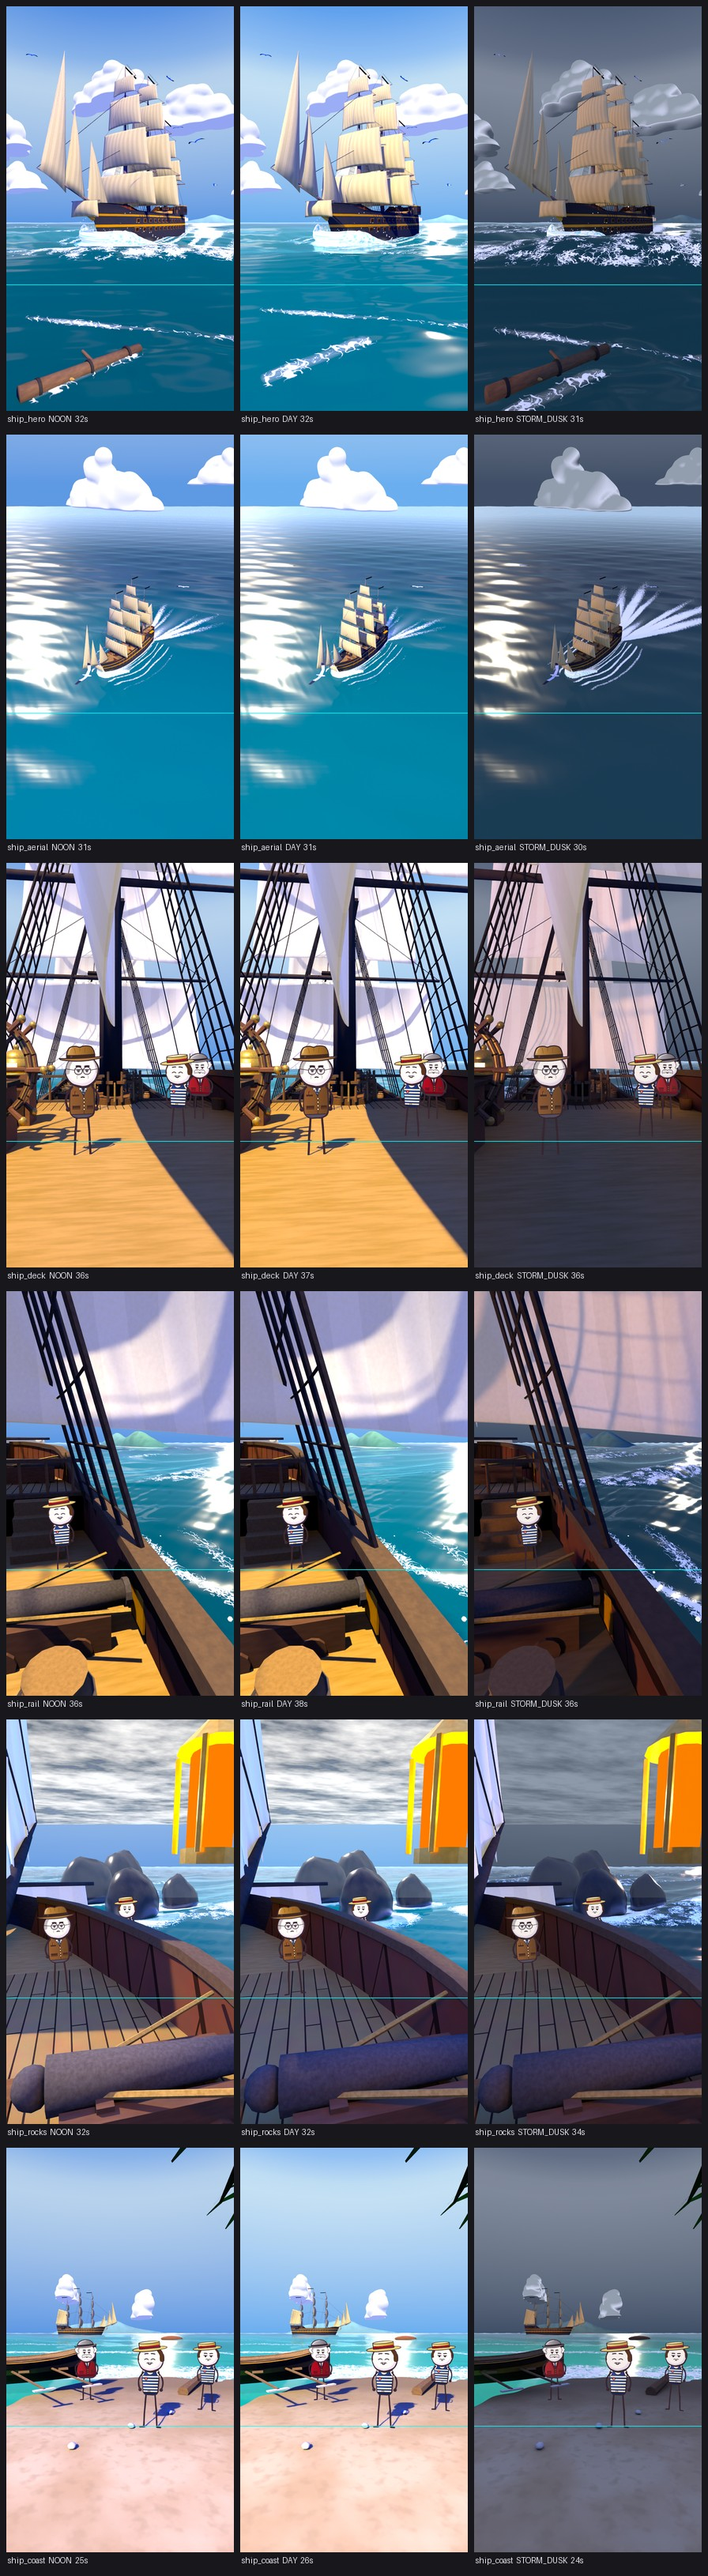
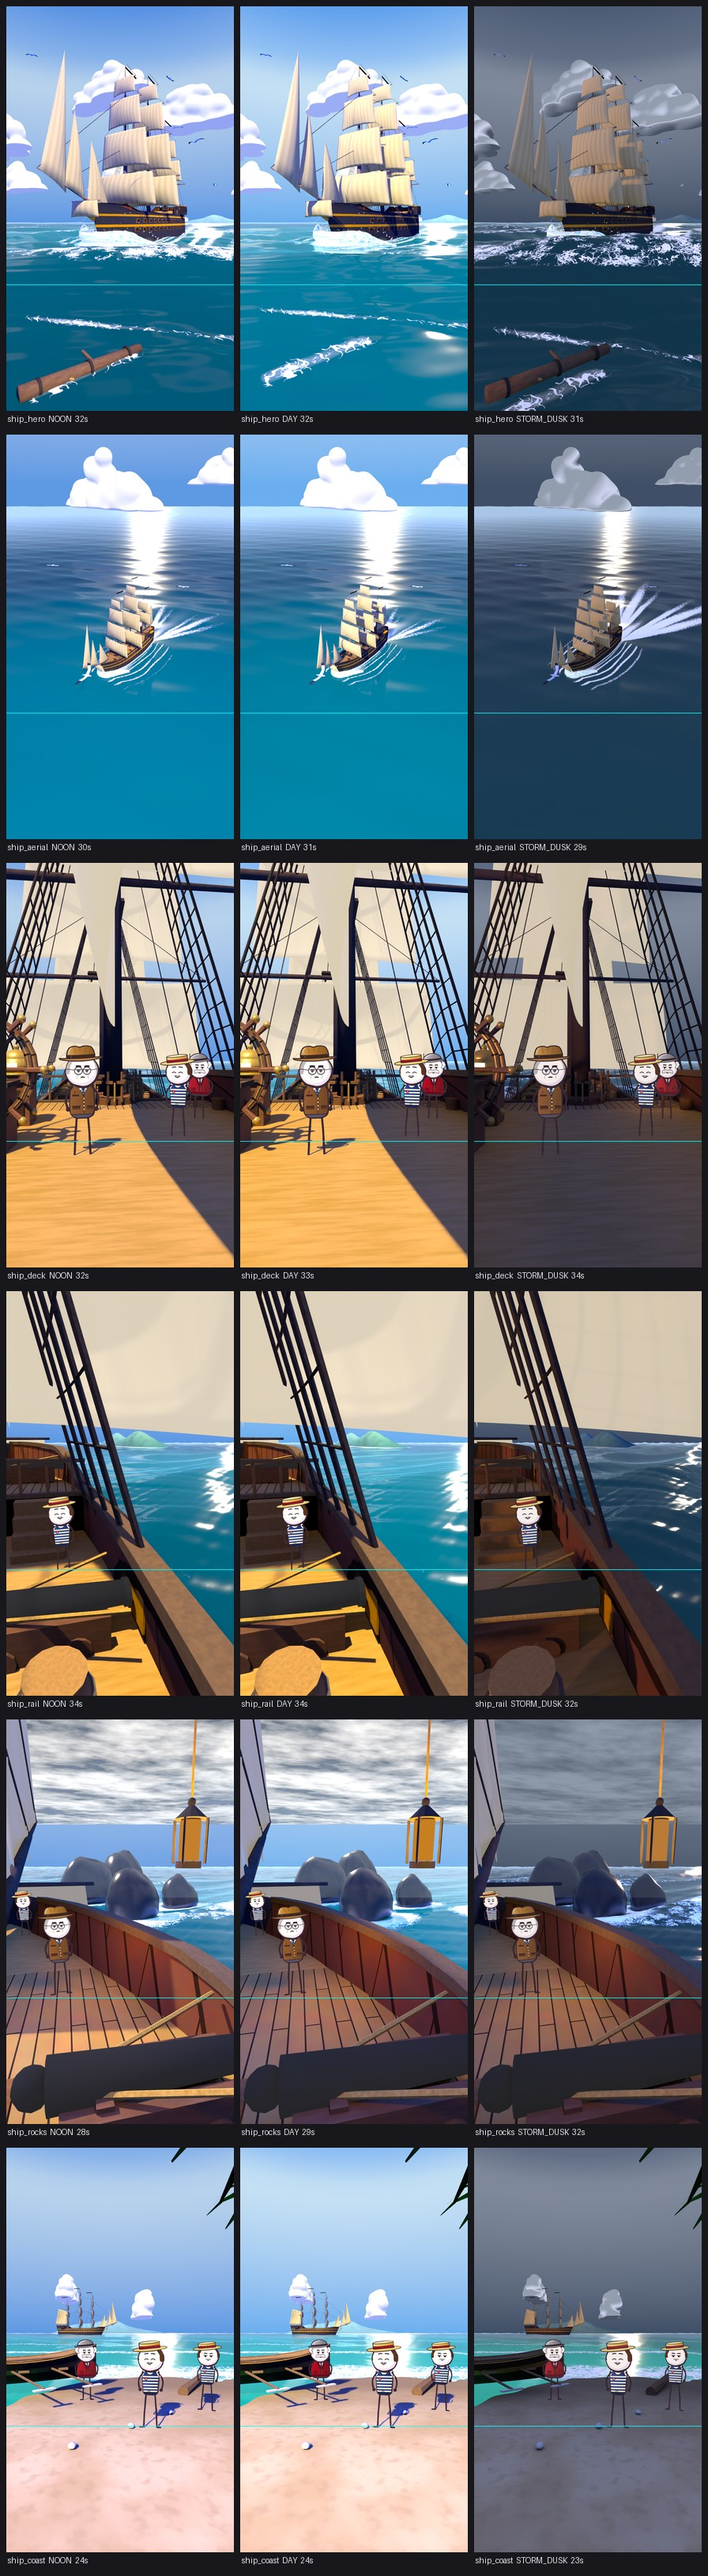
Film 19: set fix round 3
Claude-Session: https://claude.ai/code/session_017iwyCuVqr4pVQferrZ24jv

diff --git a/film/v3/set3d19/h19_ship.py b/film/v3/set3d19/h19_ship.py
@@ -50,10 +50,10 @@ def _hero_cam():
 
 PRESETS = dict(
     ship_hero=dict(light='NOON', cam=_hero_cam(), scenery='hero', glint=dict(az=19, el=6, k=40.0, ang=1.8, v6=True), wake=True, samples=12),
-    ship_aerial=dict(light='NOON', cam=dict(loc=(-70.0, 95.0, 85.0), look=(2.0, 6.0, 14.0), lens=22), scenery='aerial', glint=dict(az=118, el=34, k=20.0, ang=0.45), sea_amp=0.55, chop=0.22, rough=0.15, wc_k=0.0, sea_nu=470, sea_nv=700, wake=True, samples=10),
+    ship_aerial=dict(light='NOON', cam=dict(loc=(-70.0, 95.0, 85.0), look=(2.0, 6.0, 14.0), lens=22), scenery='aerial', glint=dict(az=147, el=16, k=5.0, ang=0.25), sea_amp=0.55, chop=0.05, rough=0.15, wc_k=0.0, sea_nu=470, sea_nv=700, wake=True, samples=10),
     ship_deck=dict(light='NOON', amb_k=0.8, amb_col='#2c64ff', cam=dict(loc=(-0.6, -21.4, DK.ZQ + 1.5), look=(0.6, -9.0, DK.ZQ + 1.2), lens=22), scenery='deck', sun_ship=True, sun_az=-148, sun_el=60, glint=dict(az=170, el=20, k=30.0, ang=2.0), wake=True, sea_nu=360, sea_nv=520, samples=11),
-    ship_rail=dict(light='NOON', amb_k=0.8, amb_col='#2c64ff', cam=dict(loc=(3.9, 7.0, DK.ZW + 2.6), look=(8.63, 25.98, DK.ZW + 2.6 - 4.16), lens=22), scenery='rail', sun_ship=True, sun_az=-120, sun_el=76, glint=dict(az=40, el=12, k=34.0, ang=1.4), sea_nu=420, sea_nv=620, wake=True, samples=11),
-    ship_rocks=dict(light='STORM_DUSK', amb_col='#3a6cf2', amb_k=2.3, cam=dict(loc=(2.2, 14.2, DK.ZF + 2.4), look=(8.28, 42.79, DK.ZF + 2.4 - 6.75), lens=22), scenery='rocks', lantern=(0.9, 0.3, 0.4), lantern_e=60.0, no_fore_lamp=True, glint=dict(az=250, el=9, k=18.0, ang=3.0), wake=True, samples=12),
+    ship_rail=dict(light='NOON', amb_k=0.8, amb_col='#2c64ff', cam=dict(loc=(3.9, 7.0, DK.ZW + 2.6), look=(8.63, 25.98, DK.ZW + 2.6 - 4.16), lens=22), scenery='rail', sun_ship=True, sun_az=-120, sun_el=76, glint=dict(az=40, el=12, k=5.0, ang=1.4), wc_k=0.0, foam_k=0.15, no_fleck=True, sea_nu=420, sea_nv=620, wake=True, samples=11),
+    ship_rocks=dict(light='STORM_DUSK', amb_col='#3a6cf2', amb_k=2.3, cam=dict(loc=(2.2, 14.2, DK.ZF + 2.4), look=(8.28, 42.79, DK.ZF + 2.4 - 6.75), lens=22), scenery='rocks', lantern=(0.9, 0.235, 0.28), lantern_s=0.46, lantern_e=60.0, no_fore_lamp=True, glint=dict(az=250, el=9, k=18.0, ang=3.0), wake=True, samples=12),
     ship_coast=dict(light='DAY_JAMAICA', cam=dict(loc=(float(LD.shore_x(40.0)) + 9.0, 33.0, 2.0), look=(float(LD.shore_x(40.0)) + 9.0 - 60.0, 34.5, -2.2), lens=22), scenery='coast', sun_ship=True, sun_az=115, sun_el=38, glint=dict(az=-80, el=12, k=26.0, ang=2.0), sea_amp=0.45, chop=0.25, wake=False, anchored=True, samples=12),
     ship_shore=dict(light='DAY_JAMAICA', cam=dict(loc=(float(LD.shore_x(40.0)) + 10.5, 33.0, 2.5), look=(float(LD.shore_x(40.0)) - 70.0, 38.0, 4.0), lens=22), scenery='shore', sun_ship=True, sun_az=115, sun_el=38, glint=dict(az=-80, el=12, k=26.0, ang=2.0), wake=False, anchored=True, samples=12),
 )
@@ -109,7 +109,7 @@ def build_ship(SET, preset, light=None):
     LT = dict(LIGHTS[lname]); coast = LT.get('coast') or (K.STATE.get('coast') or 'jamaica')
     LTb = LIGHTS['NOON'] if lname == 'NOON' else LT
     scene = bpy.context.scene
-    HU.THEME.clear(); HU.THEME['warm'] = preset in ('ship_deck', 'ship_rail', 'ship_rocks'); HU.THEME['no_stern_lamp'] = preset == 'ship_deck'; HU.THEME['sail_k'] = 0.26 if preset == 'ship_rail' else 0.42
+    HU.THEME.clear(); HU.THEME['warm'] = preset in ('ship_deck', 'ship_rail', 'ship_rocks'); HU.THEME['no_stern_lamp'] = preset == 'ship_deck'; HU.THEME['sail_k'] = 0.95 if preset in ('ship_rail', 'ship_deck') else 0.42
     S.clear(); S.update(preset=preset, light=lname, coast=coast, P=P, LT=LT)
     K.STATE['samples'] = P.get('samples', 12); K.STATE['dbounce'] = 0
     world = K.new_root('ship_world'); S['world_root'] = world
@@ -121,7 +121,7 @@ def build_ship(SET, preset, light=None):
     M = DK.deck_mats(); S['M'] = M
     HU.build_ship6_into(M) if hasattr(HU, 'build_ship6_into') else HU.build_ship6(dict())
     dobjs, lants = DK.build_deck_all(M, skip_fore_lamp=bool(P.get('no_fore_lamp'))); S['lants'] = lants
-    if P.get('lantern'): S['fglamp'] = DK.fg_lantern(M, P['cam'], P['lantern'])
+    if P.get('lantern'): S['fglamp'] = DK.fg_lantern(M, P['cam'], P['lantern'], P.get('lantern_s', 1.0))
     _parent_new(before, body)
     # marks (empties under the ship_root, D units)
     marks = {}
@@ -131,7 +131,7 @@ def build_ship(SET, preset, light=None):
     # ---- scenery, sea
     K.ROOT = world
     sea_P = dict(cam=dict(loc=P['cam']['loc'], look=P['cam']['look']), amp=P.get('sea_amp', LT['sea_amp']), chop=P.get('chop', 0.6 if lname != 'STORM_DUSK' else 1.2), wc_k=P.get('wc_k', 0.85), rough=P.get('rough', 0.1), sea_nu=P.get('sea_nu', 560), sea_nv=P.get('sea_nv', 820), sea_near=LT['sea_near'], sea_mid=LT['sea_mid'], sea_far=LT['sea_far'],
-                 fresnel_k=0.38, foam_k=LT['foam_k'], wc_min=LT['wc'][0], wc_max=LT['wc'][1], anchored=P.get('anchored', False), ship_foam=True, lift='#9fc2d8',
+                 fresnel_k=0.38, foam_k=P.get('foam_k', LT['foam_k']), wc_min=LT['wc'][0], wc_max=LT['wc'][1], anchored=P.get('anchored', False), ship_foam=True, lift='#9fc2d8',
                  glint=dict(dir=(SE.v6_dir(kdir(P['glint']['az'], P['glint']['el'])) if P['glint'].get('v6') else kdir(P['glint']['az'], P['glint']['el'])), k=P['glint']['k'] * max(0.25, LT['key'][3] / 7.2), ang=P['glint']['ang']))
     LD.scenery(S, P, LT, sea_P, marks)
     b0 = set(bpy.data.objects)
@@ -144,10 +144,14 @@ def build_ship(SET, preset, light=None):
         Pp, Nn, E, Ll = FX.bow_wave6(dict(cam=dict(loc=P['cam']['loc'])), parent=bowfx); FX.spray6(dict(cam=dict(loc=P['cam']['loc'])), M, Pp, Nn, E, Ll)
         for o in set(bpy.data.objects) - b1:
             if o.parent is None and o.type == 'MESH': o.parent = bowfx
+            if P.get('no_fleck') and o.type == 'MESH' and 'fleck' in o.name: o.hide_render = True; o.hide_viewport = True        # no floating white foam dots
     LTw = dict(LT); LTw['amb'] = (P.get('amb_col', LT['amb'][0]), LT['amb'][1] * P.get('amb_k', 1.0))
     make_world(LTw); make_sun(LT, P)
     S['sun_energy'] = LT['key'][3]
-    if S.get('fglamp') is not None: K.point_light('lampfg', S['fglamp'], (1.0, 0.56, 0.26), P.get('lantern_e', 60.0), 0.12).parent = root
+    if S.get('fglamp') is not None:
+        K2200 = (1.0, 0.58, 0.17)                                                            # 2200 K
+        K.point_light('lampfg', S['fglamp'], K2200, P.get('lantern_e', 60.0), 0.12).parent = root
+        cb = DK.marks()['captain_bow']; K.point_light('lampfg_pool', (cb[0] + 0.5, cb[1] - 0.5, cb[2] + 1.5), K2200, P.get('pool_e', 90.0), 0.15).parent = root   # warm pool on the deck by the captain
     # ---- lights on the ship (lanterns) at dusk
     if LT.get('lamp'):
         for i, c in enumerate(lants):

diff --git a/film/v3/set3d19/h19_shop.py b/film/v3/set3d19/h19_shop.py
@@ -107,7 +107,7 @@ def clock_h1(M, par, big=1.0, tall=0.0, gold2=False):
     mb.finish(parent=par)
     specs = [(-0.22, 0.30, 0.15, 20, 0.5), (0.05, 0.25, 0.11, 16, -0.9), (0.26, 0.31, 0.12, 16, 0.8), (-0.02, 0.38 + tall * 0.6, 0.065, 10, -1.6), (0.33, 0.18, 0.06, 10, 1.7), (-0.33, 0.15, 0.07, 10, -1.5)]
     for i, (dx, dz, r, nt, sp) in enumerate(specs):
-        pv = gear_obj('h1gear%d' % i, par, B if i % 3 else BD, (dx, -0.19, dz), r, nt=nt, th=0.035, rim=0.024, tooth=0.026, hub=0.027, n=14); G.append((pv, sp))
+        pv = gear_obj('h1gear%d' % i, par, B if i % 3 else BD, (dx, -0.19 - 0.045 * (0, 1, 0, 2, 1, 1)[i], dz), r, nt=nt, th=0.035, rim=0.024, tooth=0.026, hub=0.027, n=14); G.append((pv, sp))
     zt = hh + 0.22; bars = []
     pc = pivot('h1balance', par, (0, 0, zt)); bars.append(pc)
     for sgn, zz in ((1, 0.0), (-1, 0.07)):
@@ -130,10 +130,10 @@ def clock_h3(M, par):
     for dx in (-w / 2 + 0.03, w / 2 - 0.03): mb.cyl(M['brassd'], (dx, -d / 2 - 0.03, 0.06), 0.03, 0.04, seg=10)
     mb.finish(parent=par); G = []
     for i, (dx, dz, r, nt, sp) in enumerate([(-0.1, 0.2, 0.07, 12, 0.9), (0.06, 0.22, 0.09, 14, -0.7), (0.16, 0.14, 0.05, 8, 1.4)]):
-        G.append((gear_obj('h3gear%d' % i, par, B, (dx, -d / 2 - 0.02, dz), r, nt=nt, th=0.02, rim=0.014, tooth=0.016, hub=0.016, n=12), sp))
+        G.append((gear_obj('h3gear%d' % i, par, B, (dx, -d / 2 - 0.02 - 0.025 * (0, 1, 0)[i], dz), r, nt=nt, th=0.02, rim=0.014, tooth=0.016, hub=0.016, n=12), sp))
     bars = []
     for sgn, x in ((1, -0.13), (-1, 0.13)):
-        mount = pivot('h3mount%d' % sgn, par, (x * 1.32, 0.0, 0.04 + h + 0.02 + 0.16), rot=(math.pi / 2, 0, 0)); pv = pivot('h3bal%d' % sgn, mount, (0, 0, 0)); mb = MB('h3b'); r = 0.155      # rings stand upright facing the camera; the balance turns in its own plane
+        mount = pivot('h3mount%d' % sgn, par, (x * 1.45, 0.03 * sgn,  0.04 + h + 0.02 + 0.16), rot=(math.pi / 2, 0, 0)); pv = pivot('h3bal%d' % sgn, mount, (0, 0, 0)); mb = MB('h3b'); r = 0.155      # rings stand upright facing the camera; the balance turns in its own plane
         for k in range(20):
             a = 2 * math.pi * (k + .5) / 20; mb.box(B, (r * math.cos(a), r * math.sin(a), 0), (2 * math.pi * r / 20 * 1.12, 0.034, 0.038), rz=a + math.pi / 2)
         for k in range(3): mb.box(B, (0, 0, 0), (2 * r, 0.018, 0.022), rz=math.pi * k / 3)
@@ -295,15 +295,16 @@ def build_shop(SET, preset, light):
     mb.box(M['oakd'], (cx, cy, 0.07), (0.56, 0.34, 0.14)); mb.box(M['oak'], (cx - 0.24, cy, 0.8), (0.07, 0.26, 1.5)); mb.box(M['oak'], (cx + 0.24, cy, 0.8), (0.07, 0.26, 1.5)); mb.box(M['dark'], (cx, cy + 0.1, 0.8), (0.4, 0.06, 1.5))
     mb.box(M['oakd'], (cx, cy - 0.12, 1.55), (0.5, 0.05, 0.1)); mb.box(M['oak'], (cx - 0.28, cy, 2.05), (0.08, 0.3, 0.9)); mb.box(M['oak'], (cx + 0.28, cy, 2.05), (0.08, 0.3, 0.9)); mb.box(M['dark'], (cx, cy + 0.12, 2.05), (0.5, 0.06, 0.9))
     mb.box(M['oak'], (cx, cy, 2.55), (0.74, 0.38, 0.1)); mb.box(M['oakd'], (cx, cy, 2.66), (0.62, 0.32, 0.12)); mb.box(M['oak'], (cx, cy - 0.02, 1.58), (0.62, 0.34, 0.05)); mb.box(M['oak'], (cx, cy + 0.04, 2.05), (0.44, 0.03, 0.82))
-    for (dx, dz, r, nt) in [(-0.08, 2.3, 0.11, 14), (0.07, 2.12, 0.085, 12), (-0.07, 1.95, 0.065, 10), (0.08, 1.84, 0.045, 8)]: gear(mb, M['gearw'], (cx + dx, cy - 0.04, dz), r, nt=nt, th=0.035, rim=0.02, tooth=0.02, hub=0.02, n=12)
+    for gi, (dx, dz, r, nt) in enumerate([(-0.08, 2.3, 0.11, 14), (0.07, 2.12, 0.085, 12), (-0.07, 1.95, 0.065, 10), (0.08, 1.84, 0.045, 8)]): gear(mb, M['gearw'], (cx + dx, cy - 0.04 - 0.045 * gi, dz), r, nt=nt, th=0.035, rim=0.02, tooth=0.02, hub=0.02, n=12)   # each gear offset along its normal (y) so teeth never intersect
     mb.rod(M['iron'], (cx, cy - 0.02, 2.4), (cx, cy - 0.02, 1.1), 0.007, 0.007, 6); mb.cyl(M['brass'], (cx, cy - 0.02, 1.0), 0.1, 0.03, axis='y', seg=16)
     for dx in (-0.1, 0.1):
         mb.rod(M['iron'], (cx + dx, cy - 0.04, 1.8), (cx + dx, cy - 0.04, 0.45 if dx < 0 else 0.7), 0.004, 0.004, 4); mb.cyl(M['brass'], (cx + dx, cy - 0.04, 0.38 if dx < 0 else 0.62), 0.045, 0.2, seg=10)
     for dx in (-0.3, 0, 0.3): mb.ell(M['brass'], (cx + dx, cy, 2.78), (0.03, 0.03, 0.05), (8, 6))
     # ---- back wall: wooden gear wheels on pegs, saws, chisel rack
-    for (x, z, r, nt, col) in [(0.55, 2.0, 0.31, 18, 'gearw'), (1.0, 2.3, 0.2, 14, 'honey'), (0.87, 1.74, 0.14, 10, 'gearw'), (0.3, 1.7, 0.1, 8, 'oak')]:
-        gear(mb, M[col], (x, Y1 - 0.08, z), r, nt=nt, th=0.045, rim=0.045 * (r / 0.3 + 0.5), tooth=0.05 * (r / 0.3 + 0.4), hub=0.04)
-        mb.rod(M['iron'], (x, Y1 - 0.08, z + r + 0.04), (x, Y1, z + r + 0.04), 0.012, 0.012, 6)
+    for gi, (x, z, r, nt, col) in enumerate([(0.55, 2.0, 0.31, 18, 'gearw'), (1.0, 2.3, 0.2, 14, 'honey'), (0.87, 1.74, 0.14, 10, 'gearw'), (0.3, 1.7, 0.1, 8, 'oak')]):
+        gy = Y1 - 0.08 - 0.05 * gi                    # each gear offset along its normal (y) by > its thickness: no intersecting teeth
+        gear(mb, M[col], (x, gy, z), r, nt=nt, th=0.045, rim=0.045 * (r / 0.3 + 0.5), tooth=0.05 * (r / 0.3 + 0.4), hub=0.04)
+        mb.rod(M['iron'], (x, gy, z + r + 0.04), (x, Y1, z + r + 0.04), 0.012, 0.012, 6)
     hang_saw(mb, M, (1.6, Y1 - 0.12, 2.45), 0.7, 0.0); hang_saw(mb, M, (2.05, Y1 - 0.12, 2.0), 0.55, 1.2); hang_saw(mb, M, (1.75, Y1 - 0.12, 1.85), 0.5, -0.06)
     mb.box(M['oakd'], (1.2, Y1 - 0.1, 1.5), (1.4, 0.06, 0.06))
     for k in range(7):

diff --git a/film/v3/set3d19/h19_ship_deck.py b/film/v3/set3d19/h19_ship_deck.py
@@ -45,7 +45,9 @@ def deck_mats():
     M['wheelw'] = mat('wheelw', '#74482a', '#8a5a34', scale=5, aniso=(0.15, 1, 1), rough=0.6, sheen=0.3); M['darkw'] = mat('darkw', '#3e2a1c', '#4c3424', scale=4)
     M['brassw'] = metal_mat('brassw', '#d2a64a', '#ecc366', rough=0.32, spec=0.7, metallic=0.55)
     if HU.THEME.get('warm'): M['caprail'] = mat('caprail_w', '#5a4632', '#6a5238', scale=3); M['carr'] = mat('carr_w', '#5a3e2c', '#6c4a34', scale=4, aniso=(0.2, 1, 1))
-    M['lampfg'] = mat_emit('lampfg', '#ff8a30', 1.05)
+    M['lampfg'] = mat_emit('lampfg', '#ffb060', 0.525)       # amber glass, emission halved (was #ff8a30 x 1.05)
+    M['lantern_iron'] = mat('lantern_iron', '#3a3430', None, rough=0.6)          # warm iron frame
+    M['cannon_iron'] = mat('cannon_iron', '#2a2a2c', None, rough=0.55); HU._mix_self(M['cannon_iron'], '#2a2a2c', 1.0, 0.72)   # neutral iron: the storm's blue ambient must not turn it violet
     return M
 
 def level_of(y):
@@ -87,8 +89,8 @@ def liner(mb, M, side, ya, yb, zfun, n=60):
 def cannon(mb, M, side, y, z, hwid):
     s = side; zc = z + 0.60
     xo = s * (hwid - 0.20); xi = s * (hwid - 2.2)
-    tube(mb, M['iron'], (xi, y, zc), (xo + s * 0.1, y, zc), 0.23, 0.16, 12)
-    mb.ell(M['iron'], (xi - s * 0.12, y, zc), (0.17, 0.17, 0.17), (10, 8)); mb.cyl(M['iron'], (xo + s * 0.08, y, zc), 0.19, 0.08, axis='x', seg=12)
+    tube(mb, M['cannon_iron'], (xi, y, zc), (xo + s * 0.1, y, zc), 0.23, 0.16, 12)
+    mb.ell(M['cannon_iron'], (xi - s * 0.12, y, zc), (0.17, 0.17, 0.17), (10, 8)); mb.cyl(M['cannon_iron'], (xo + s * 0.08, y, zc), 0.19, 0.08, axis='x', seg=12)
     for yy in (-0.3, 0.3): mb.box(M['carr'], ((xi + xo) / 2 - s * 0.05, y + yy, z + 0.30), (1.7, 0.14, 0.5))
     mb.box(M['carr'], (xi + s * 0.45, y, z + 0.45), (0.14, 0.6, 0.3)); mb.box(M['oak'], (xi - s * 0.55, y, z + 0.46), (0.5, 0.5, 0.06))
     for dx in (-0.35, 0.5):
@@ -231,19 +233,20 @@ def marks():
     wx, wy = WHEEL
     return dict(
         captain_wheel=(wx + 1.6, wy - 0.4, ZQ), william_rail=(3.9, 11.6, ZW), sailor_a=(-2.1, -4.0, ZW), sailor_b=(-float(half_w(3.6, ZW, 0.14)) + 0.8, 3.6, ZW),
-        sailor_c=(1.9, -14.0, ZQ), astro_deck=(-2.4, -9.1, ZW), crew_bow=(3.7, 20.4, ZF),
+        sailor_c=(1.9, -14.0, ZQ), astro_deck=(-2.4, -9.1, ZW), crew_bow=(0.8, 22.5, ZF),
         sailor_rail=(2.4, 13.0, ZW), william_deck=(0.9, -17.0, ZQ), astro_quarter=(1.9, -15.6, ZQ), captain_bow=(2.0, 18.6, ZF))
 
 
-def fg_lantern(M, cam, off):
+def fg_lantern(M, cam, off, scale=1.0):
     """a big warm ship's lantern hung a metre and a half (D) in front of the camera: brass cage, glass body glowing 2200 K, cap, ring and a thin hanging line.
     cam = preset camera dict (metres); off = (forward, right, up) metres from the camera. Returns the lantern centre (metres, ship frame)."""
     c = Vector(cam['loc']); f = (Vector(cam['look']) - c).normalized(); r = f.cross(Vector((0, 0, 1))).normalized()
     p = c + f * off[0] + r * off[1] + Vector((0, 0, off[2]))
-    mb = MB('fglantern'); B = M['brassw']; s = 1.0
-    mb.cyl(B, (p.x, p.y, p.z - 0.17), 0.095, 0.05, seg=14); mb.cyl(M['lampfg'], (p.x, p.y, p.z), 0.075, 0.28, seg=12)
-    for (dx, dy) in ((-1, -1), (1, -1), (1, 1), (-1, 1)): mb.rod(B, (p.x + 0.085 * dx, p.y + 0.085 * dy, p.z - 0.16), (p.x + 0.085 * dx, p.y + 0.085 * dy, p.z + 0.15), 0.011, 0.011, 5)
-    mb.cone(B, (p.x, p.y, p.z + 0.15), 0.12, 0.025, 0.09, 12); mb.ell(B, (p.x, p.y, p.z + 0.265), (0.03, 0.03, 0.03), (8, 6))
-    mb.rod(M['rope'], (p.x, p.y, p.z + 0.27), (p.x - 0.04, p.y, p.z + 3.0), 0.009, 0.009, 4)
-    mb.finish(shadow=False)
+    mb = MB('fglantern'); B = M['lantern_iron']; s = scale
+    mb.push(Matrix.Translation((p.x, p.y, p.z)) @ Matrix.Diagonal((s, s, s, 1))); q = (0.0, 0.0, 0.0)
+    mb.cyl(B, (0, 0, -0.17), 0.095, 0.05, seg=14); mb.cyl(M['lampfg'], (0, 0, 0), 0.075, 0.28, seg=12)
+    for (dx, dy) in ((-1, -1), (1, -1), (1, 1), (-1, 1)): mb.rod(B, (0.085 * dx, 0.085 * dy, -0.16), (0.085 * dx, 0.085 * dy, 0.15), 0.011, 0.011, 5)
+    mb.cone(B, (0, 0, 0.15), 0.12, 0.025, 0.09, 12); mb.ell(B, (0, 0, 0.265), (0.03, 0.03, 0.03), (8, 6))
+    mb.rod(M['rope'], (0, 0, 0.27), (-0.04, 0, 3.0), 0.009, 0.009, 4)
+    mb.pop(); mb.finish(shadow=False)
     return (p.x, p.y, p.z)

diff --git a/film/v3/set3d19/h19_ship_hull.py b/film/v3/set3d19/h19_ship_hull.py
@@ -94,6 +94,20 @@ def sail_obj(M, name, PF, nx, ny, thick=0.03):
     ob = bpy.data.objects.new(name, me); bpy.context.scene.collection.objects.link(ob)
     md = ob.modifiers.new('thick', 'SOLIDIFY'); md.thickness = thick; md.offset = 0.0
     return ob
+def _mix_self(m, hexcol, k, fac):
+    nt = m.node_tree; bs = nt.nodes['bsdf']; out = [n for n in nt.nodes if n.type == 'OUTPUT_MATERIAL'][0]
+    em = nt.nodes.new('ShaderNodeEmission'); em.inputs['Color'].default_value = hexc(hexcol); em.inputs['Strength'].default_value = k
+    mx = nt.nodes.new('ShaderNodeMixShader'); mx.inputs[0].default_value = fac
+    nt.links.new(bs.outputs[0], mx.inputs[1]); nt.links.new(em.outputs[0], mx.inputs[2]); nt.links.new(mx.outputs[0], out.inputs['Surface'])
+
+def _sail_self_cream(m, k, fac=0.85):
+    """deck / rail sails: part of the shading is pure cream emission (strength k) so the blue ambient cannot turn the canvas lavender; Principled part keeps the cream base, translucency / transmission 0"""
+    nt = m.node_tree; bs = nt.nodes['bsdf']; out = [n for n in nt.nodes if n.type == 'OUTPUT_MATERIAL'][0]
+    em = nt.nodes.new('ShaderNodeEmission'); em.inputs['Color'].default_value = hexc('#e8dcc0'); em.inputs['Strength'].default_value = k
+    mx = nt.nodes.new('ShaderNodeMixShader'); mx.inputs[0].default_value = fac
+    nt.links.new(bs.outputs[0], mx.inputs[1]); nt.links.new(em.outputs[0], mx.inputs[2]); nt.links.new(mx.outputs[0], out.inputs['Surface'])
+    if 'Transmission Weight' in bs.inputs: bs.inputs['Transmission Weight'].default_value = 0.0
+
 def ship6_mats():
     M = ship_mats()
     M['mast'] = mat('mast6', '#7a6458', '#8c7466', scale=3, aniso=(0.2, 0.2, 0.05)); M['oak'] = mat('oak6', '#7e6454', '#8e7462', scale=5, aniso=(0.15, 1, 1))
@@ -109,9 +123,10 @@ def ship6_mats():
     M['rig6'] = mat('rig6', '#2c2430', '#40343e', scale=3)
     if THEME.get('warm'):
         M['mast'] = mat('mast6w', '#3a2e26', '#4a3a2e', scale=3, aniso=(0.2, 0.2, 0.05)); M['oak'] = mat('oak6w', '#6a4628', '#7e5632', scale=5, aniso=(0.15, 1, 1))
-        M['canv'] = mat('canvw', '#e8dcc0', '#dccfae', scale=2.2, aniso=(1.3, 1, 0.8), contrast=0.8, emit='#f4e4c0', emit_k=THEME.get('sail_k', 0.42))
-        M['canv2'] = mat('canv2w', '#e2d6b8', '#d6c9a8', scale=2.2, aniso=(1.3, 1, 0.8), contrast=0.8, emit='#f4e4c0', emit_k=THEME.get('sail_k', 0.42) * 0.9)
+        M['canv'] = mat('canvw', '#e8dcc0', '#e8dcc0', scale=2.2, aniso=(1.3, 1, 0.8), contrast=0.8, emit='#e8dcc0', emit_k=0.0)     # cream like ship_hero; no translucency (0)
+        M['canv2'] = mat('canv2w', '#e2d6b8', '#e2d6b8', scale=2.2, aniso=(1.3, 1, 0.8), contrast=0.8, emit='#e8dcc0', emit_k=0.0)
         M['rig6'] = mat('rig6w', '#2e2620', '#40342a', scale=3); M['iron'] = mat('iron_w', '#4a4038', '#5c5248', scale=6, rough=0.6)
+        for _k in ('canv', 'canv2'): _sail_self_cream(M[_k], THEME.get('sail_k', 0.5))
     M['sail'] = M['canv']; M['sail2'] = M['canv2']
     return M
 def build_hull6(M):

diff --git a/film/v3/set3d19/h19_ship_land.py b/film/v3/set3d19/h19_ship_land.py
@@ -389,7 +389,9 @@ def coast(S, P, LT, sea_P, marks):
     for i in range(9):
         y = rr.uniform(20.0, 125.0); x = float(shore_x(y)) - rr.uniform(14.0, 90.0)
         if abs(x) < 26 and abs(y) < 40: continue
-        boat(mbh, M, (x, y, 0.0), rr.uniform(6.0, 11.0), rr.uniform(0, 6.28), sail=(i % 3 != 2), seed=i)
+        bl, by_ = rr.uniform(6.0, 11.0), rr.uniform(0, 6.28)
+        if S.get('preset') == 'ship_coast' and i % 3 == 2: continue            # the sail-less hulls read as brown discs floating on the sea (coast QA)
+        boat(mbh, M, (x, y, 0.0), bl, by_, sail=(i % 3 != 2), seed=i)
     mbh.finish(shadow=True)
     # ---- fort + dressing
     mbf = MB('fort')
